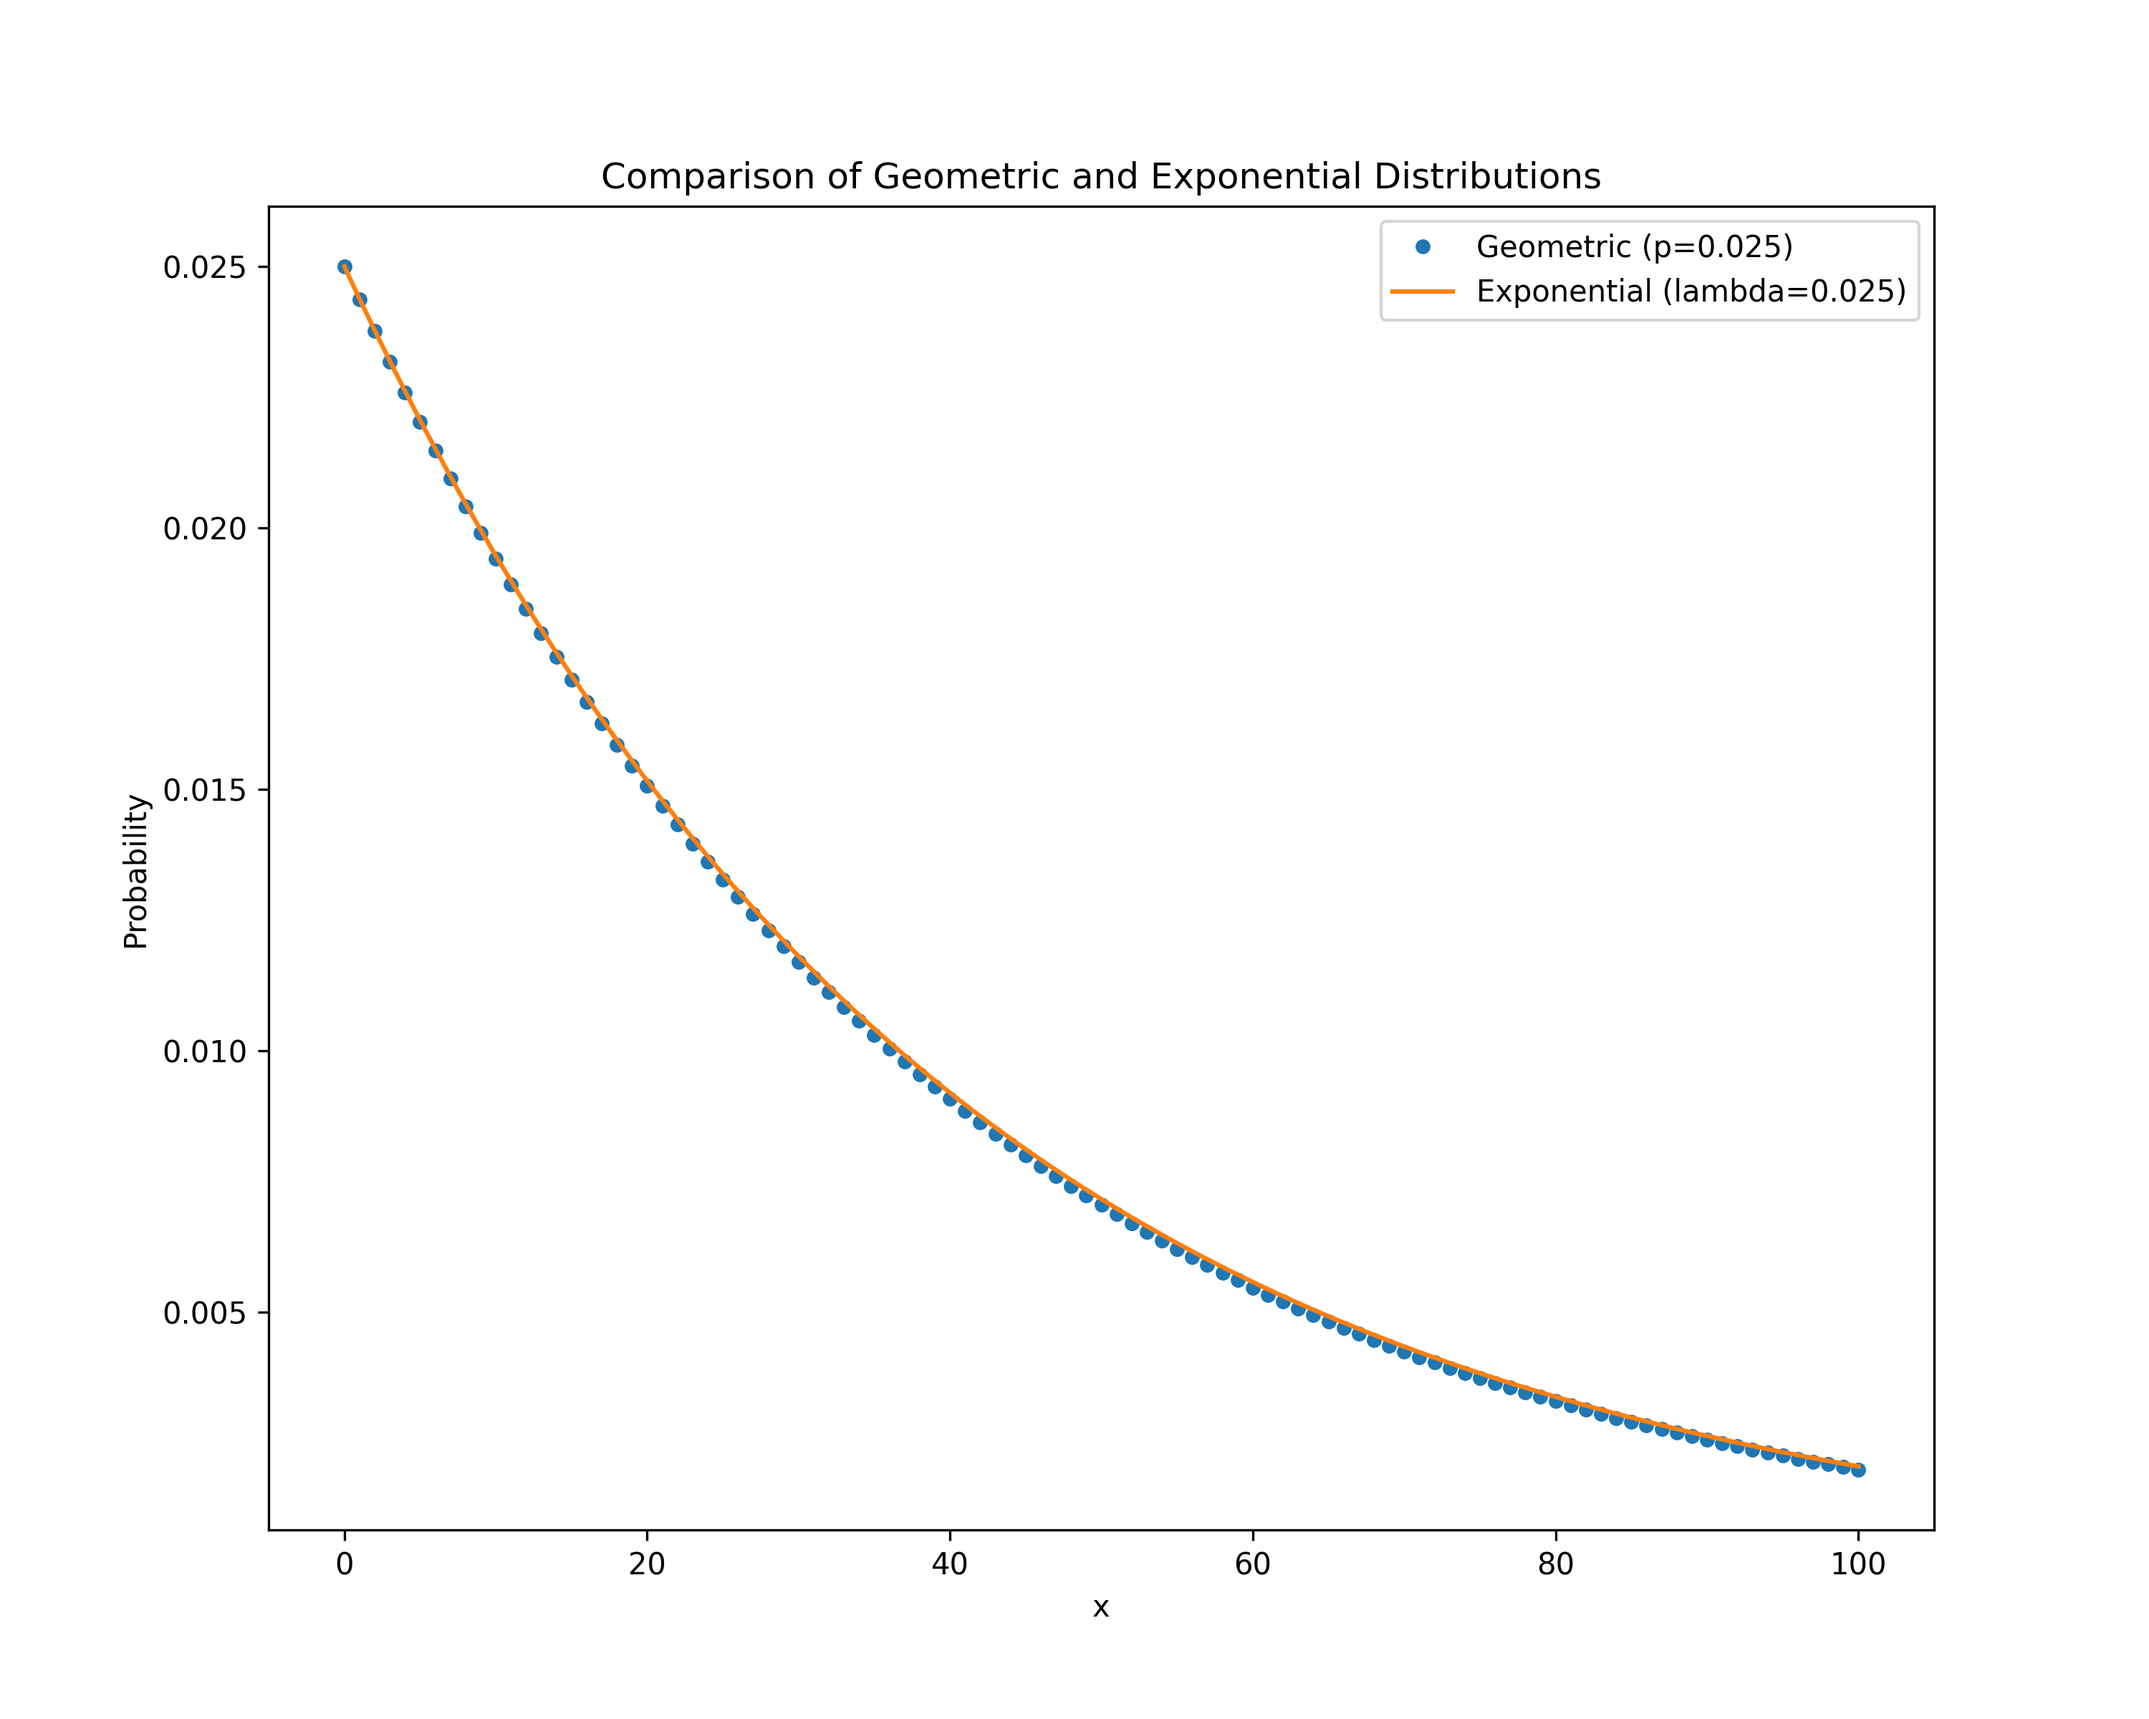
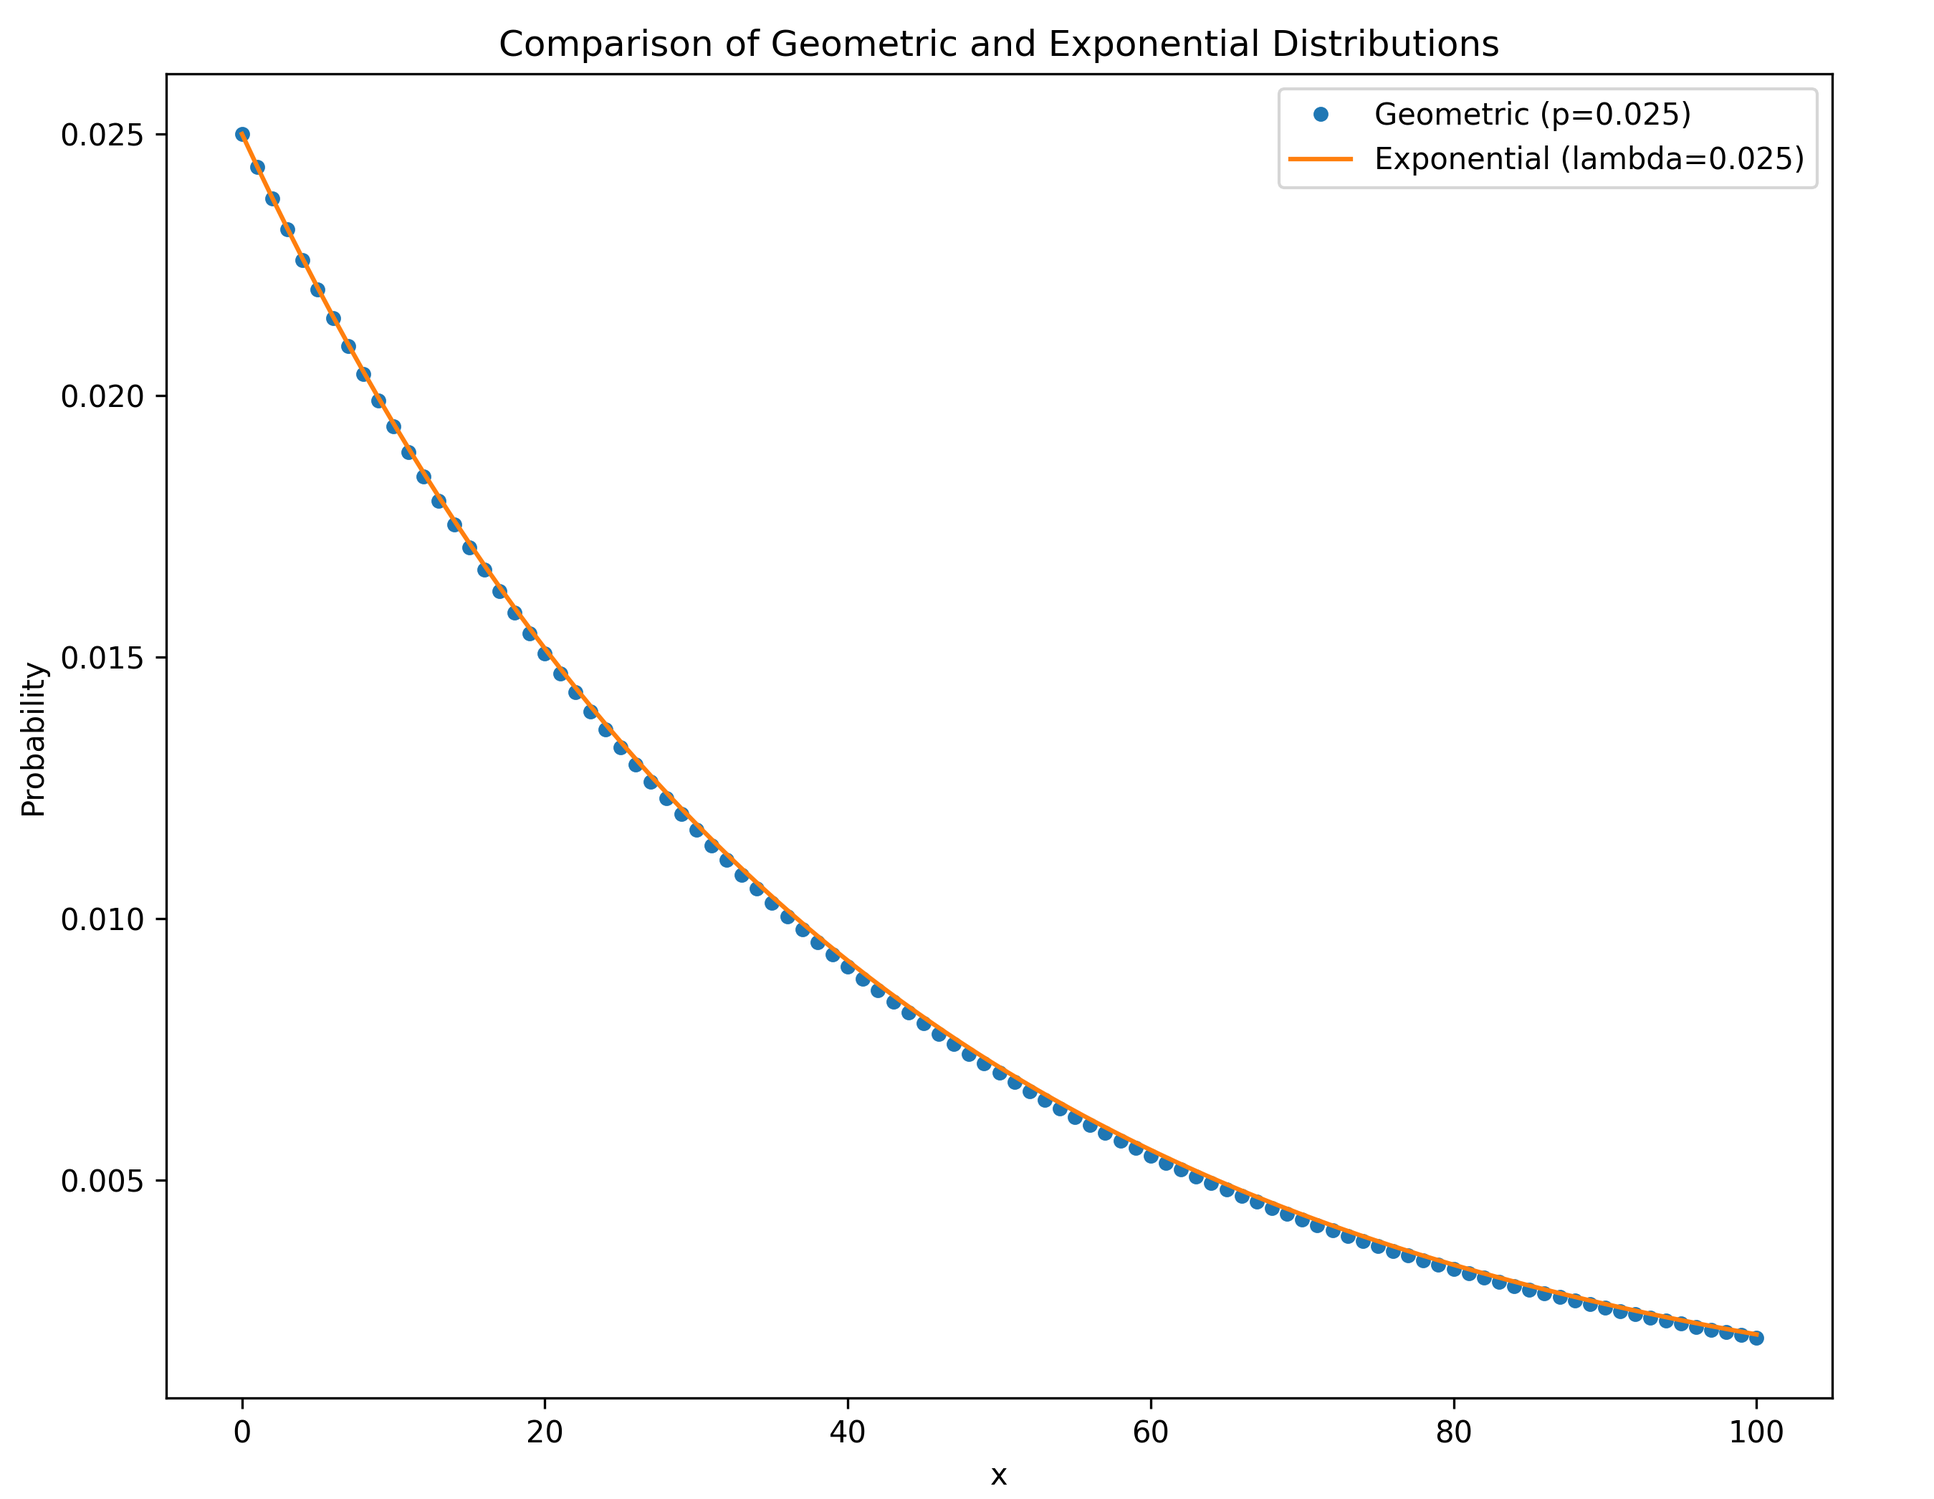
small changes

diff --git a/lecture10/index.html b/lecture10/index.html
@@ -108,7 +108,7 @@ only now there are $k \choose 2$ possible pairs that may coalesce, resulting in 
 <p>The geometric distribution converges to the exponential distribution as the population 
 size becomes larger and the rate of coalescence becomes smaller.</p>
 
-<img data-src="distribution_comparison.png" style="width:70%">
+<img data-src="distribution_comparison.png" style="width:75%">
 
 </section>
 
